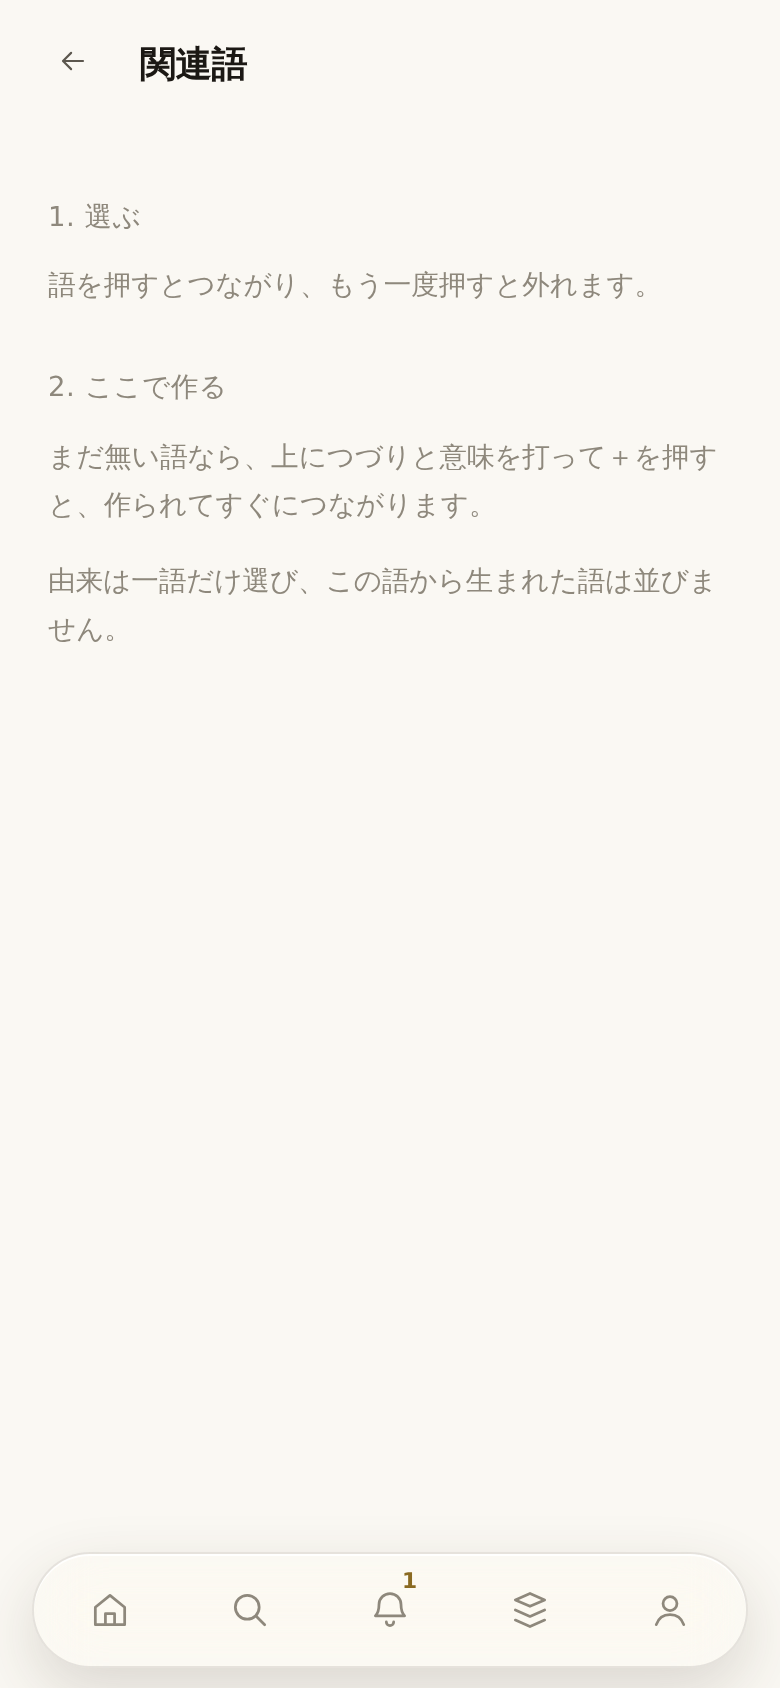
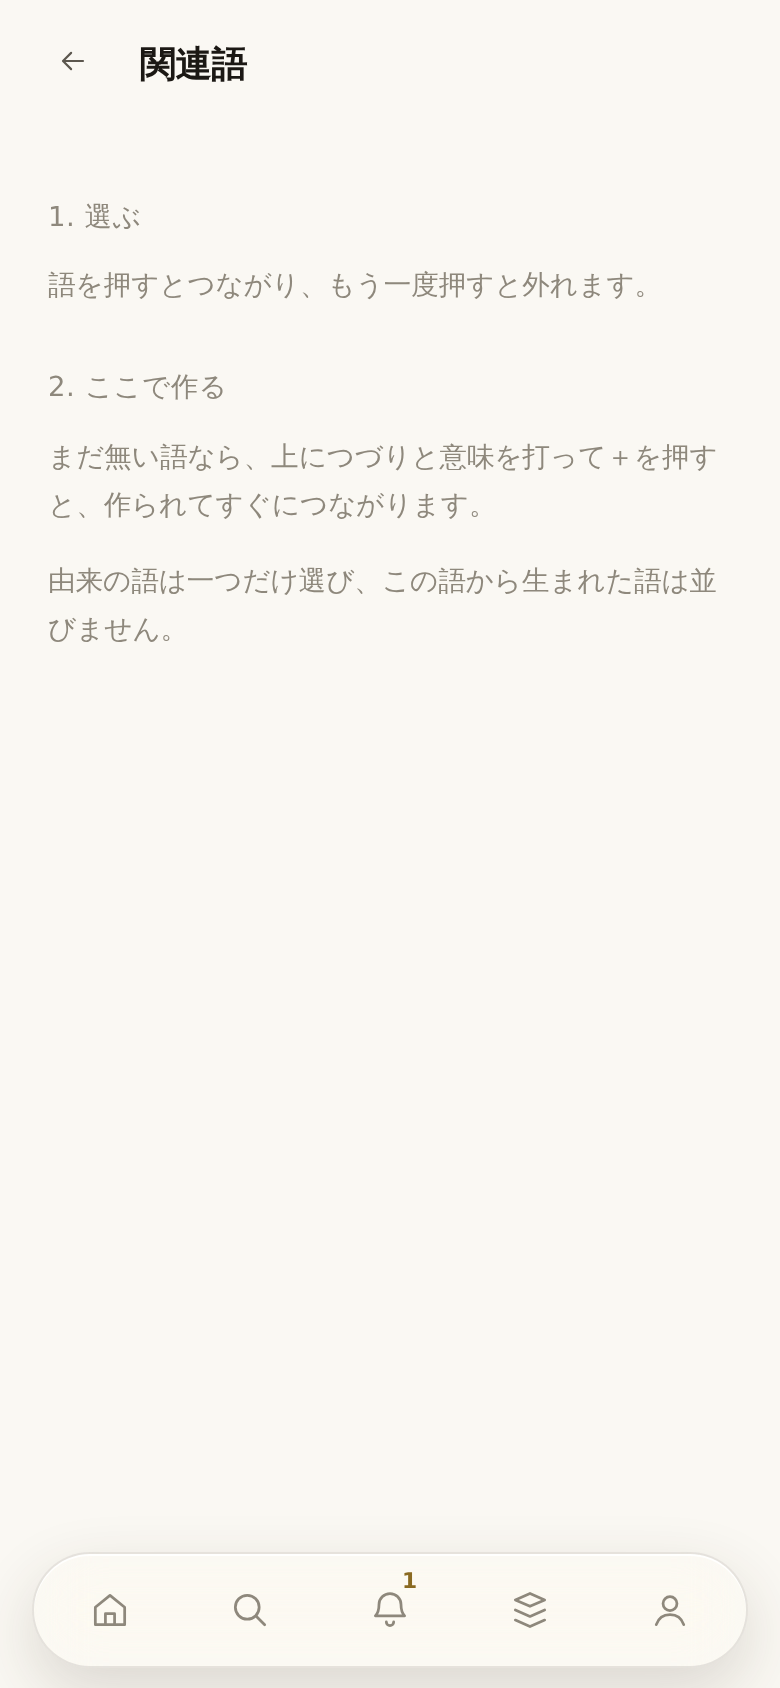
「?」の文で行の名前を画面どおりに（由来の語・来源词・유래어）と r103 の報告
日本語・中国語・韓国語の三つの文が「由来」「来自」「유래」と書いていたが、画面の行は
「由来の語」「来源词」「유래어」。画面の名前に合わせた。写真の三枚を撮り直した。

Claude-Session: https://claude.ai/code/session_019F859cX3LbwwJToFrV7kyf

Changed region(s): [[0.2769, 0.3389, 0.9231, 0.3697], [0.0615, 0.3389, 0.2462, 0.4005]]

diff --git a/www/i18n/ko.js b/www/i18n/ko.js
@@ -1642,7 +1642,7 @@ defLang('ko', (function(){
       "hp.w1.3" : "뜻과 예문",
       "hp.w1.3.d" : "제목 옆의 +를 누르면 추가됩니다.",
       "hp.w1.4" : "관련 단어",
-      "hp.w1.4.d" : "동의어, 반의어, 그리고 이 단어가 만들어진 한 단어인 '유래'. 이 단어에서 만들어진 단어도 함께 나옵니다.",
+      "hp.w1.4.d" : "동의어, 반의어, 그리고 이 단어가 만들어진 한 단어인 '유래어'. 이 단어에서 만들어진 단어도 함께 나옵니다.",
       "hp.w1.ety.d" : "관련어 칸에서 엽니다. 위에는 이 단어의 유래가, 아래에는 이 단어에서 만들어진 단어가 나옵니다.",
       "hp.w1.card.d" : "단어를 내 글자로 된 그림으로 만들어 공유합니다.",
       "hp.gn.p" : "이 언어에 있을 법한 단어를, 글자가 가진 소리로 만듭니다.",
@@ -1659,7 +1659,7 @@ defLang('ko', (function(){
       "hp.et.2" : "아래",
       "hp.et.2.d" : "이 단어에서 만들어진 단어와, 거기서 또 만들어진 단어.",
       "hp.et.3" : "바꿉니다",
-      "hp.et.3.d" : "단어 편집 페이지의 '유래' 줄에서 이 단어가 온 단어를 고릅니다.",
+      "hp.et.3.d" : "단어 편집 페이지의 '유래어' 줄에서 이 단어가 온 단어를 고릅니다.",
       "hp.et.p2" : "단어를 누르면 열립니다. 누를 수 없는 줄은 삭제된 단어이며 철자만 남아 있습니다.",
       "hp.gr.p" : "문법은 한 권의 책입니다. 문장, 명사, 동사 등이 각각 한 장씩입니다.",
       "hp.gr.1" : "장을 엽니다",
@@ -1709,7 +1709,7 @@ defLang('ko', (function(){
       "hp.rl.1.d" : "단어를 누르면 연결되고, 다시 누르면 풀립니다.",
       "hp.rl.2" : "여기서 만듭니다",
       "hp.rl.2.d" : "단어가 아직 없으면 위에 철자와 뜻을 치고 +를 누르세요. 바로 만들어지고 연결됩니다.",
-      "hp.rl.p" : "'유래'는 단어 하나만 고르며, 이 단어에서 나온 단어는 목록에 나오지 않습니다.",
+      "hp.rl.p" : "'유래어'는 단어 하나만 고르며, 이 단어에서 나온 단어는 목록에 나오지 않습니다.",
       "hp.nt.p" : "나를 위한 이 언어에 관한 메모.",
       "hp.nt.1.d" : "아래의 +.",
       "hp.nt.2" : "읽기와 고치기",

diff --git a/www/i18n/ja.js b/www/i18n/ja.js
@@ -1382,7 +1382,7 @@ defLang('ja', (function(){
       "hp.w1.3" : "意味と例文",
       "hp.w1.3.d" : "見出しの横の＋で足します。",
       "hp.w1.4" : "関連語",
-      "hp.w1.4.d" : "同義語・対義語と、この語のもとになった一語（由来）。この語から生まれた語もいっしょに並びます。",
+      "hp.w1.4.d" : "同義語・対義語と、この語のもとになった一語（由来の語）。この語から生まれた語もいっしょに並びます。",
       "hp.w1.ety.d" : "関連語の欄から開きます。上にこの語のもとになった語、下にこの語から生まれた語が並びます。",
       "hp.w1.card.d" : "単語を自分の文字の絵にして共有します。",
       "hp.gn.p" : "この言語にありそうな単語を、文字が持つ音から作ります。",
@@ -1399,7 +1399,7 @@ defLang('ja', (function(){
       "hp.et.2" : "下",
       "hp.et.2.d" : "この語から生まれた語と、そこからさらに生まれた語。",
       "hp.et.3" : "変える",
-      "hp.et.3.d" : "単語の編集ページの「由来」の行で、もとになった語を選びます。",
+      "hp.et.3.d" : "単語の編集ページの「由来の語」の行で、もとになった語を選びます。",
       "hp.et.p2" : "語を押すと開きます。押せない行は消された語で、つづりだけが残っています。",
       "hp.gr.p" : "文法は一冊の本です。文・名詞・動詞…がそれぞれ一章になっています。",
       "hp.gr.1" : "章を開く",
@@ -1449,7 +1449,7 @@ defLang('ja', (function(){
       "hp.rl.1.d" : "語を押すとつながり、もう一度押すと外れます。",
       "hp.rl.2" : "ここで作る",
       "hp.rl.2.d" : "まだ無い語なら、上につづりと意味を打って＋を押すと、作られてすぐにつながります。",
-      "hp.rl.p" : "由来は一語だけ選び、この語から生まれた語は並びません。",
+      "hp.rl.p" : "由来の語は一つだけ選び、この語から生まれた語は並びません。",
       "hp.nt.p" : "この言語について、自分のためのメモ。",
       "hp.nt.1.d" : "下の＋。",
       "hp.nt.2" : "読む・直す",

diff --git a/www/i18n/zh.js b/www/i18n/zh.js
@@ -1472,7 +1472,7 @@ defLang('zh', (function(){
       "hp.w1.3" : "意思和例句",
       "hp.w1.3.d" : "点标题旁边的 + 添加。",
       "hp.w1.4" : "相关词",
-      "hp.w1.4.d" : "同义词、反义词，以及“来自”——这个词由哪个词而来。由它而来的词也一起列出。",
+      "hp.w1.4.d" : "同义词、反义词，以及“来源词”——这个词由哪个词而来。由它而来的词也一起列出。",
       "hp.w1.ety.d" : "从关联词那一栏打开：上面是它的来源，下面是由它而来的词。",
       "hp.w1.card.d" : "把这个词用你的字做成图片来分享。",
       "hp.gn.p" : "可能属于这门语言的词，用它的字所带的音造出。",
@@ -1489,7 +1489,7 @@ defLang('zh', (function(){
       "hp.et.2" : "下面",
       "hp.et.2.d" : "由它而来的词，以及由那些词而来的词。",
       "hp.et.3" : "修改",
-      "hp.et.3.d" : "在词的编辑页面，“来自”那一行选它来自哪个词。",
+      "hp.et.3.d" : "在词的编辑页面，“来源词”那一行选它来自哪个词。",
       "hp.et.p2" : "点一个词打开它。点不了的那一行是已删除的词，只留下拼写。",
       "hp.gr.p" : "语法是一本书：句子、名词、动词等，各占一章。",
       "hp.gr.1" : "打开一章",
@@ -1539,7 +1539,7 @@ defLang('zh', (function(){
       "hp.rl.1.d" : "点词来关联，再点一次取消。",
       "hp.rl.2" : "在这里新建",
       "hp.rl.2.d" : "如果这个词还没有，就在顶部打出拼写和意思，点 +：马上建好并关联。",
-      "hp.rl.p" : "“来自”只选一个词，由这个词而来的词不会出现在列表里。",
+      "hp.rl.p" : "“来源词”只选一个词，由这个词而来的词不会出现在列表里。",
       "hp.nt.p" : "关于这门语言、写给自己的笔记。",
       "hp.nt.1.d" : "底部的 +。",
       "hp.nt.2" : "阅读和修改",

diff --git a/docs/scope/r103-help.md b/docs/scope/r103-help.md
@@ -38,3 +38,64 @@
 ## 触らない
 
 保存・データ・プラン・サーバー。画面の本体（「?」の外）。`index.html`（CSS は今ある `.sec` `.note` を使う）。
+
+---
+
+# 報告（2026-09-26）
+
+コミット: `eb947bf6`（refactor: `shStep()` を `helpStep()` へ、見た目は同じ）、`124e465a`（本体）、この報告の
+コミット（中国語・韓国語・日本語で、行の名前を画面の名前どおりに直した ── 由来の語／来源词／유래어）。
+`origin/integ-0905` はブランチを切った `f4768ac0` から動いていない（merge は「Already up to date」）。
+
+## 画面ごと
+
+| HELP | 画面（route／用紙） | 中身 | 写真（`shots/r103/`） |
+|---|---|---|---|
+| `letters` 新 | 文字の章 `letters` | 段落・3 手順・書き出し（共有マーク：フォント／SVG）・用紙・アブギダ／組み合わせの行 | `form-help-letters-ja.png` `bar-letters-ja.png` |
+| `ltset` 新 | 文字の部屋 `ltset:*` | 3 手順（開く・長押しで並べ替え／−で外す・ペンのマス）・＋・絞り込みと並び・最初からある文字 | `form-help-ltset-ja.png` `bar-ltset-alpha-ja.png` |
+| `letter` 新 | 一文字 `letter:*` | 描く・名前・音・メモ・保存・既存文字から選ぶ・SVG | `form-help-letter-ja.png` `bar-letter-l1-ja.png` |
+| `glyph` 足した | 字を描く `glyph:*` | 3 手順（線を引く・整える・保存）の後に前からのズームと道具五つ | `form-help-glyph-ja.png` `bar-glyph-l1-ja.png` |
+| `wsys` 足した | 書き方 `wsys` | 2 手順（選ぶ・保存）の後に前からの種類（`block` を含む）と方向 | `form-help-wsys-ja.png` |
+| `abugida` 新 | 母音の台 `abugida` | 段落・3 手順 | `form-help-abugida-ja.png` |
+| `blk` 新 | マスの型 `blk`・`blkv` | 段落・3 手順（母音・型・終わりの子音）・自分の字で描かれる | `form-help-blk-ja.png` |
+| `sp` 新 | 字間 `sp` | 段落・2 手順・投稿は書いた時の字間 | `form-help-sp-ja.png` `bar-sp-ja.png` |
+| `snd` 新 | 音の表（用紙 `snd:*`） | 選ぶ（もう一度で外す）・保存・群の開閉と群の ? | `form-help-snd-ja.png` |
+| `words` 新 | 辞書 `words` | ＋・開く・検索／絞り込み／並び・作る・選択 | `form-help-words-ja.png` `bar-words-ja.png` |
+| `word` 新 | 一語（用紙 `word:*`・`edit:*`・`add:*`） | 編集・つづり・意味と例文・関連語・保存・系統図・カード | `form-help-word-ja.png` `bar-form-word-kano-ja.png` |
+| `gen` 新 | 単語を作る `gen`・`gensyl` | 段落・3 手順・綴れる語だけ | `form-help-gen-ja.png` `bar-gen-ja.png` |
+| `ety` 新 | 系統図 `ety:*` | 上・下・変える・押せない行 | `form-help-ety-ja.png` `bar-ety-kano-ja.png` |
+| `spell` 新 | 読み `spell` | 音を押す・再生 | `form-help-spell-ja.png` |
+| `rel` 新 | 関連語を選ぶ `relate:*` | 選ぶ・ここで作る・由来の語は一つ | `form-help-rel-ja.png` |
+| `gram` 新 | 文法の本と章 `gram`・`gram:book:*` | 段落・3 手順・節の ? | `form-help-gram-ja.png` `bar-gram-ja.png` |
+| `kb` 足した | キーボード一覧 `kb` | 前からの iPhone の三手順の後に「キーボードを作る」: 足す・選ぶ・①②③と確定・端末に適用、マーク（キーの設定・結合・寄せ・＋・消す・戻す進む）、長押しで動かす | `form-help-kb-ja.png` |
+| `wld` 新 | 言語のページ `about`・`world`・`wldart:*` | 段落・読む・書く・公開・DL可 | `form-help-wld-ja.png` `bar-about-ja.png` |
+| `post` 新 | 投稿（用紙 `post:`） | 一行・意味・写真・声・送る（長押しで自分だけ）・下書き | `form-help-post-ja.png` `bar-form-post--ja.png` |
+| `notes` 新 | メモ `notes` | 段落・＋・読む／直す・消す | `form-help-notes-ja.png` `bar-notes-ja.png` |
+
+キーボードの編集の説明は一覧の「?」一つに入れた。2026-09-06「一か所」（板のページには置かない）と今日の指示の両方を満たす形。
+板のページに二つ目の「?」が要るならオーナーの判断。
+
+**足さなかった作る画面**（判断を仰ぐ）: `pos`・`reg`・`sub`（一つ選ぶだけの一覧）、`fm`（行ごとに前からの ? がある）、
+`find`、`build`（目次）。同じ仕組みで一行ずつ足せる。
+（`fmSay()` は行の「?」を `toast()` で出していて、バーの「?」と別の出し方。触っていない ── `docs/BACKLOG.md` 行き候補。）
+
+## ファイル
+
+`www/home.js`（`helpPara`／`helpNote`／`helpStep`／`helpMark`、`HELP.wld`、言語のページのバー）、`www/sound.js`、`www/glyph.js`、
+`www/wsys.js`、`www/words.js`、`www/wordsheet.js`、`www/phases.js`、`www/keyboard.js`、`www/post.js`、`www/notes.js`、
+`www/sheet.js`（`shStep` を消した）、`www/i18n/*.js`（`hp.*` 149 個 × 10 言語）、`docs/CHANGELOG.md`、`docs/FEATURE_RULES.md`（実装状況の一文）。
+保存する物・消す物・プラン・サーバーは触っていない。`index.html` も触っていない。
+
+## 確かめたこと（CODE CONFIRMED）
+
+- pre-commit（fast 全部＋i18n、10 言語、`openHelp` の面を含む 74 の面）が二回とも緑。手元で es5・dead・sides・box・face を走らせて緑。
+- 20 の「?」を日本語で開いて撮り、目で見た（上の表）。二つの段落が続くと詰まっていたのを直した（`helpPara` は上に間、手順の下の行は `helpNote`）。
+- 書いた事実は画面のコードで確かめた: 音はもう一度押すと外れる（`ltTakeSnd`）、端末に適用はどのキーボードで打つか（`kbApply`）、
+  メモ・キーボード・辞書の＋は下の丸、読みの押しは末尾に一音足す（`spAdd`）、画面で言葉のボタン（作る・選択・用紙・既存文字から選ぶ・系統図・カード）にはマークを描かない。
+
+## 確かめていないこと
+
+- ゲート全体（press・act ほか）は回していない ── リーダーの番。「?」がバーに一つ増えた画面は press の押す数が増えるはず。
+- 英語以外の 8 言語の文は自分で書いた訳で、話者は読んでいない。写真は日本語だけ。
+- DEVICE: 実機は見ていない。バーが狭い投稿画面は写真では収まっている。
+- OWNER: 文の中身（何を書き、何を書かないか）はオーナーが「?」を開いて読むまで決まっていない。
